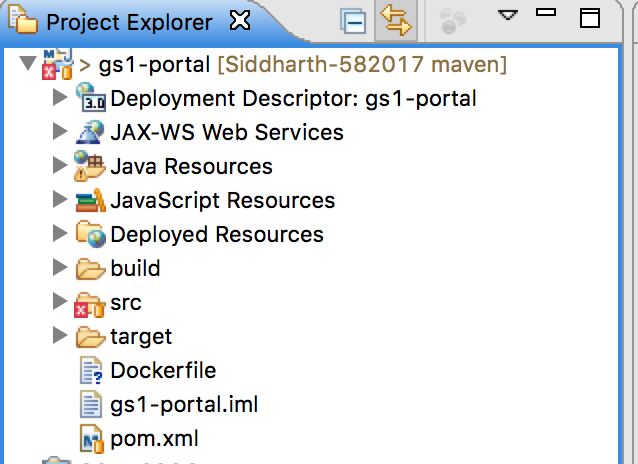
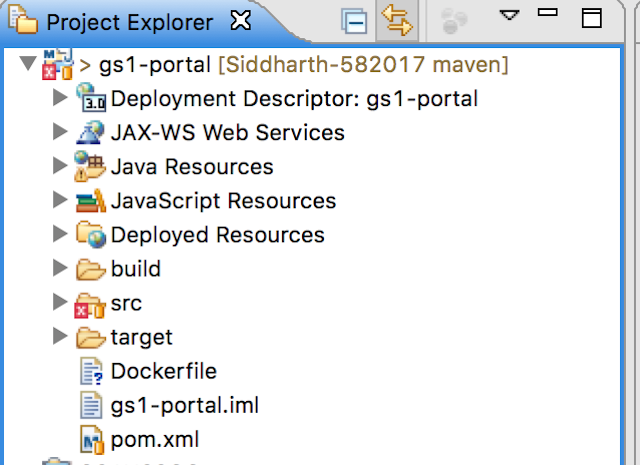
changed image sizes

diff --git a/README.md b/README.md
@@ -233,13 +233,15 @@ Make sure you follow the [tl;dr](#tldr) section above to install all the tools y
  1. Choose File -> Import...
  1. Select the `Maven` import wizard
  1. and choose "Existing Maven Projects"
- ![Eclipse Import Wizard Screen Shot](/images/maven-wizard.png?raw=true =460x480) 
+ ![Eclipse Import Wizard Screen Shot](/images/maven-wizard.png?raw=true "Eclipse Import Wizard")
  1. Click `Next >`
  1. Click `Browse...` and navigate to either `gs1-portal` or `gs1-pds`
- ![Eclipse Select Maven projects Screen Shot](/images/import-project.png?raw=true =517x480)
+ ![Eclipse Select Maven projects Screen Shot](/images/import-project.png?raw=true "Eclipse Select 
+ Maven projects")
  1. To edit classes or resources use `Open Type...` or `Open Resource...`. You want to navigate 
  to classes using the `Java Resources` section in the `Project Explorer`
- ![Eclipse Project Explorer Screen Shot](/images/project-explorer.png?raw=true =640x465 )
+ ![Eclipse Project Explorer Screen Shot](/images/project-explorer.png?raw=true "Eclipse Project 
+ Explorer")
  
  Note: you can ignore the `build`, `target` and `src` directories. While this is where the code 
  and `.class` files live, you can access all source code you need through the `Java Resources` 
